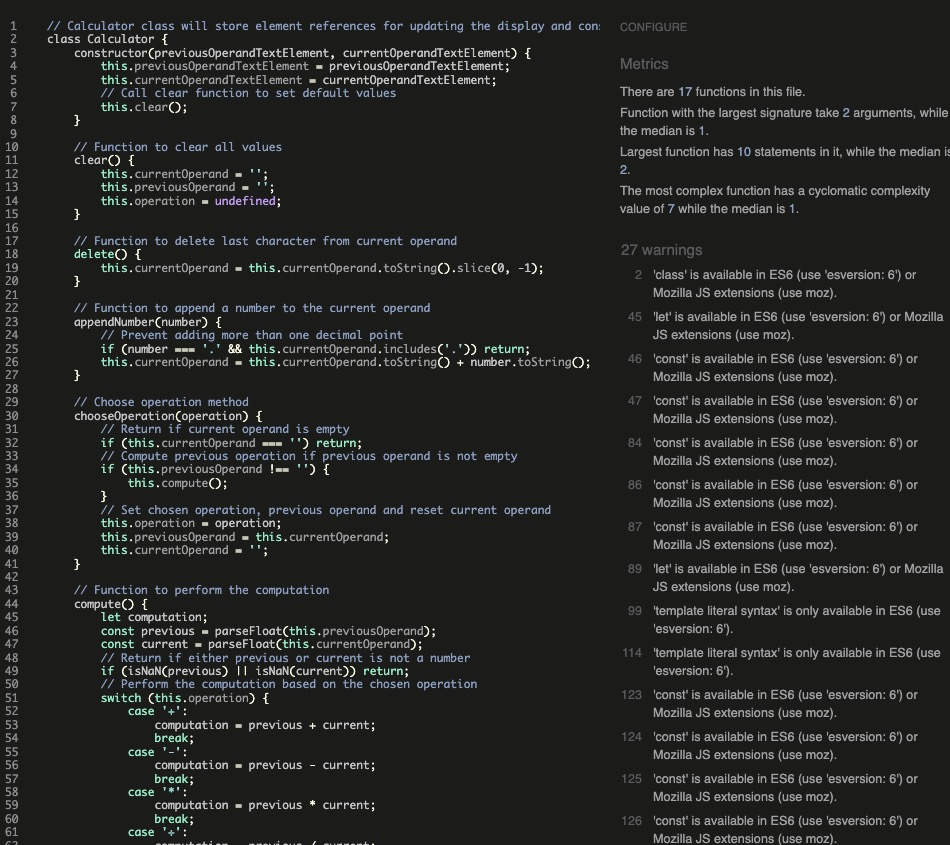
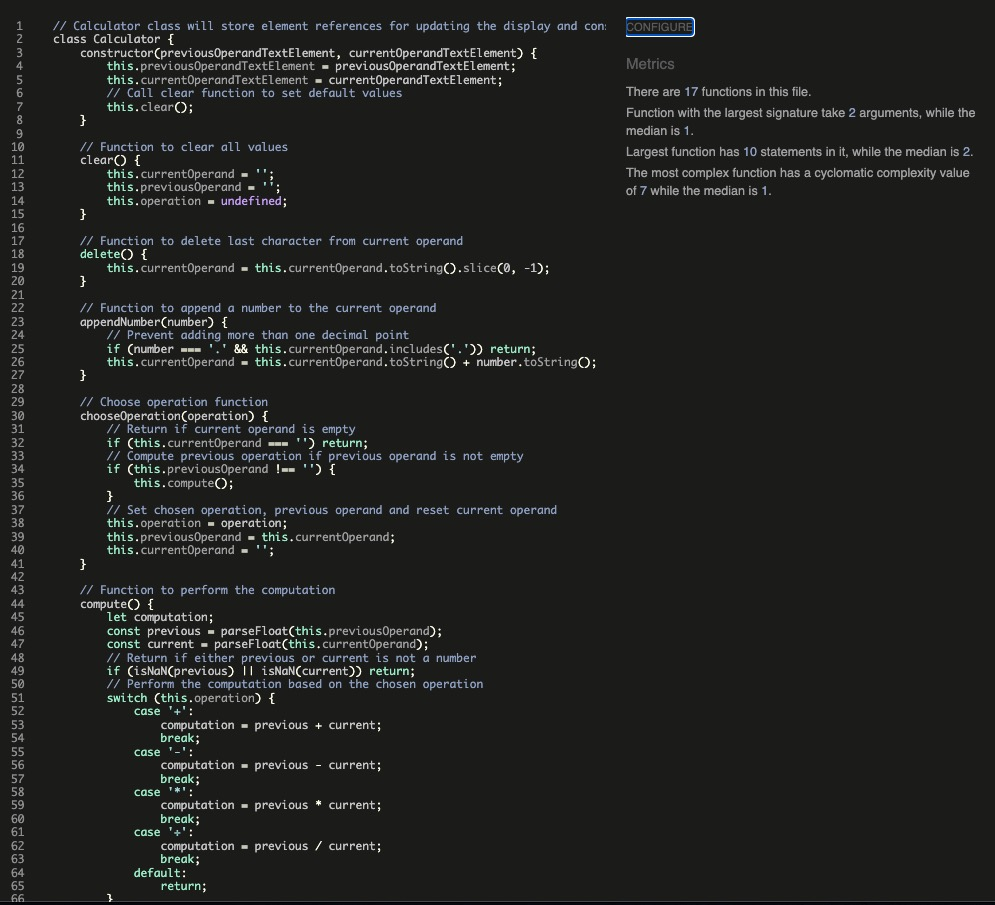
Edit ReadMe file and Javascript comms

Changed region(s): [[0.0, 0.0, 1.0, 1.0]]

diff --git a/assets/js/script.js b/assets/js/script.js
@@ -7,19 +7,19 @@ class Calculator {
         this.clear();
     }
 
-    // Function to clear all values
+    // Method to clear all values
     clear() {
         this.currentOperand = '';
         this.previousOperand = '';
         this.operation = undefined;
     }
 
-    // Function to delete last character from current operand
+    // Method to delete last character from current operand
     delete() {
         this.currentOperand = this.currentOperand.toString().slice(0, -1);
     }
 
-    // Function to append a number to the current operand
+    // Method to append a number to the current operand
     appendNumber(number) {
         // Prevent adding more than one decimal point
         if (number === '.' && this.currentOperand.includes('.')) return;
@@ -40,7 +40,7 @@ class Calculator {
         this.currentOperand = '';
     }
 
-    // Function to perform the computation
+    // Method to perform the computation
     compute() {
         let computation;
         const previous = parseFloat(this.previousOperand);
@@ -70,7 +70,7 @@ class Calculator {
         this.previousOperand = '';
     }
 
-    // Function to calculate the percentage of a number
+    // Method to calculate the percentage of a number
     percentage() {
         // Return if current operand is empty
         if (this.currentOperand === '') return;
@@ -78,7 +78,7 @@ class Calculator {
         this.currentOperand = parseFloat(this.currentOperand) / 100;
 }
 
-    // Function to format the display number
+    // Method to format the display number
     getDisplayNumber(number) {
         // Convert the number to a string
         const stringNumber = number.toString();

diff --git a/index.html b/index.html
@@ -15,9 +15,12 @@
 </head>
 
 <body>
+    
+    <!-- Logo and title -->
     <h1 class="heading">
         <img class="logo" src="assets/images/logo.png" alt="logo">Calculator
     </h1>
+
     <!-- Calculator container -->
     <div class="calculator-grid">
 

diff --git a/README.md b/README.md
@@ -140,7 +140,7 @@ The W3C Jigsaw CSS Validation Service was used to validate the CSS of the websit
 </details>
 
 ### JavaScript Validation
-JSHint Static Code Analysis Tool for JavaScript was used to validate the Javascript files. 27 warnings which I need to address.
+JSHint Static Code Analysis Tool for JavaScript was used to validate the Javascript files. No warnings or errors.
 <details><summary>Calculator</summary>
 <img src="docs/validation/js-validation.jpg">
 </details>
@@ -174,7 +174,7 @@ Website was tested on the following browsers:
 
 - Google Chrome
 - Mozilla Firefox
-- Microsoft Edge
+- Safari
 
 ### Testing user stories
 
